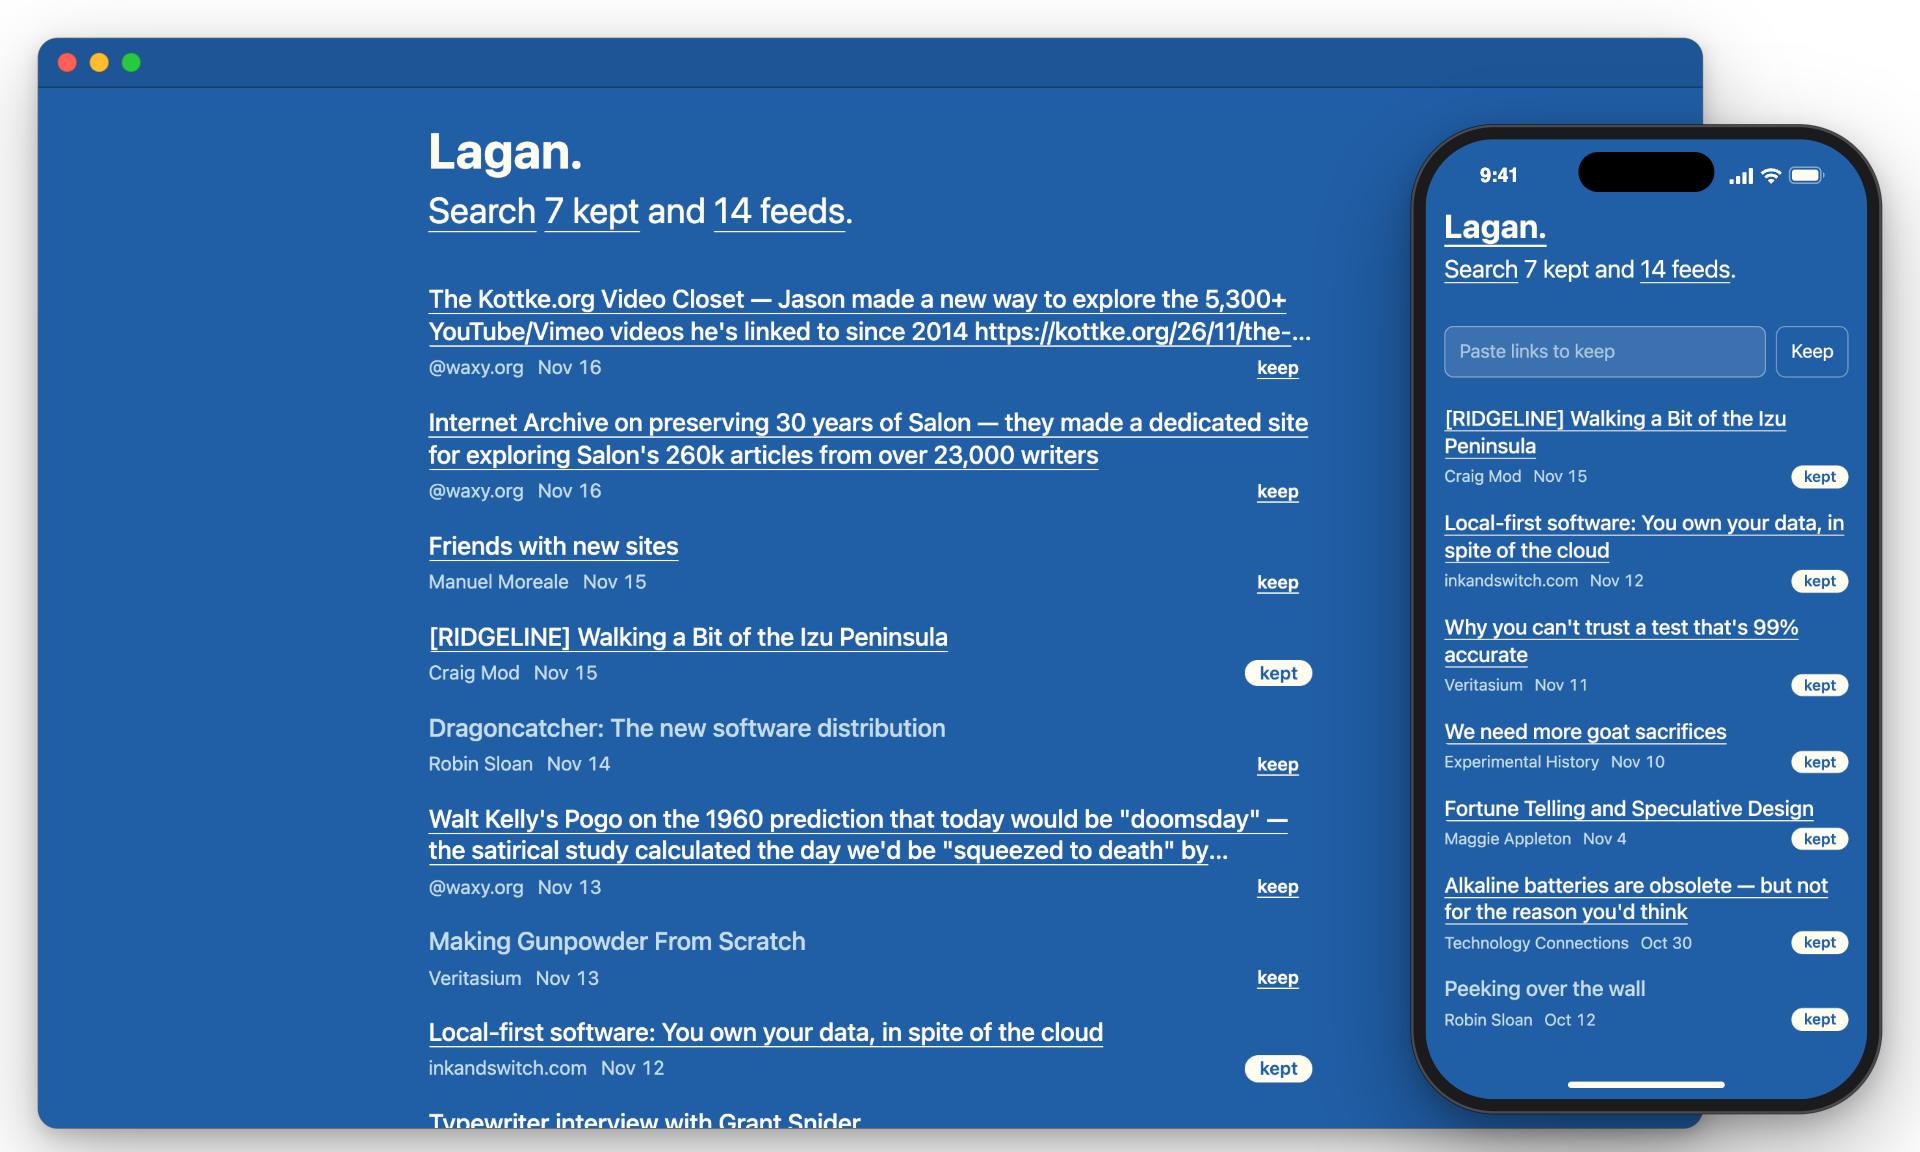
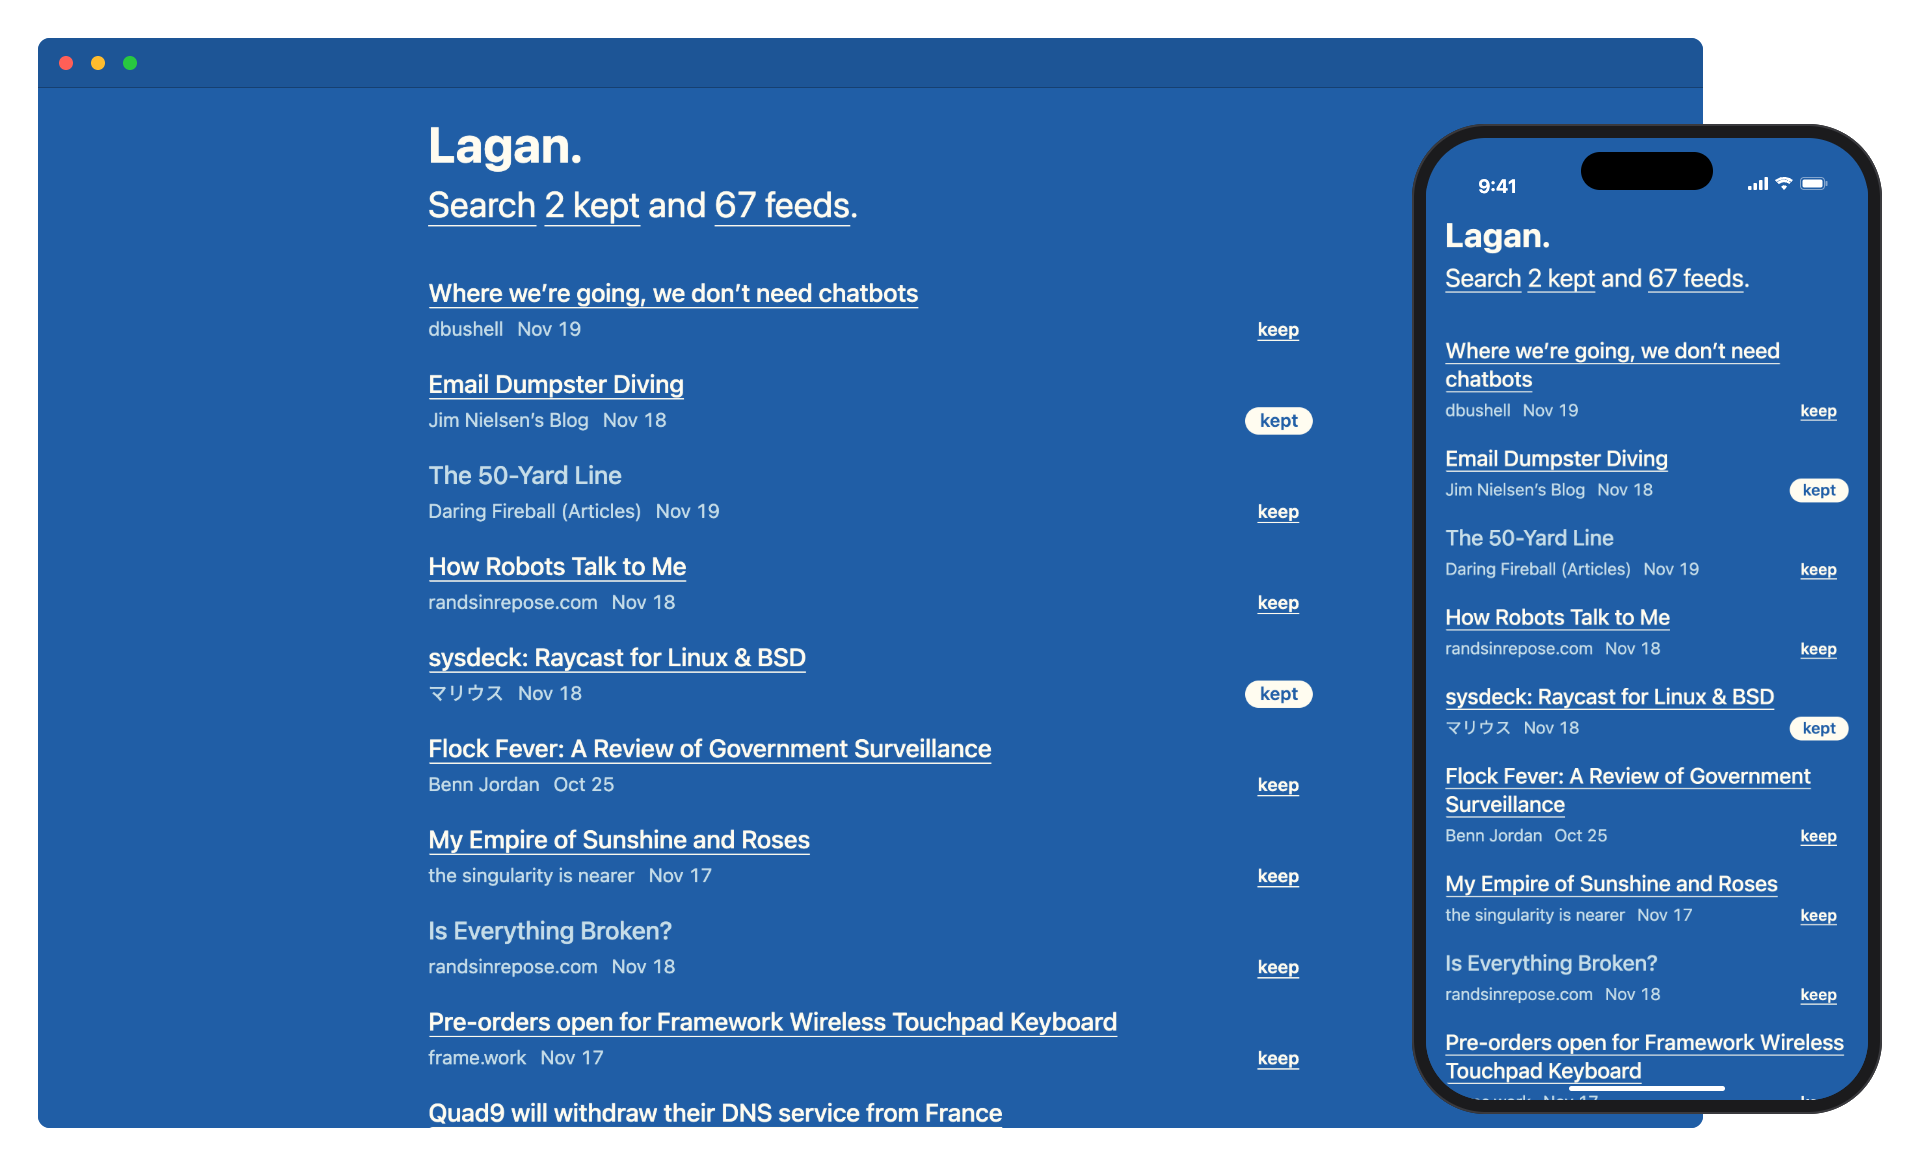
docs: the screenshot shows a real feed, with posts kept and opened, and no shadows

diff --git a/README.md b/README.md
@@ -14,7 +14,7 @@ Lagan is a feed tracker for one person. It follows RSS, Atom and JSON feeds, You
 
 It's one Bun process and one SQLite file, with no build step.
 
-![Lagan on a desktop and a phone: the newest posts from blogs, a YouTube channel and a Bluesky account, and what was kept](docs/screenshot.png)
+![Lagan on a desktop and a phone: the newest posts from the feeds it follows, two kept and two already opened](docs/screenshot.png)
 
 ## Installation
 
